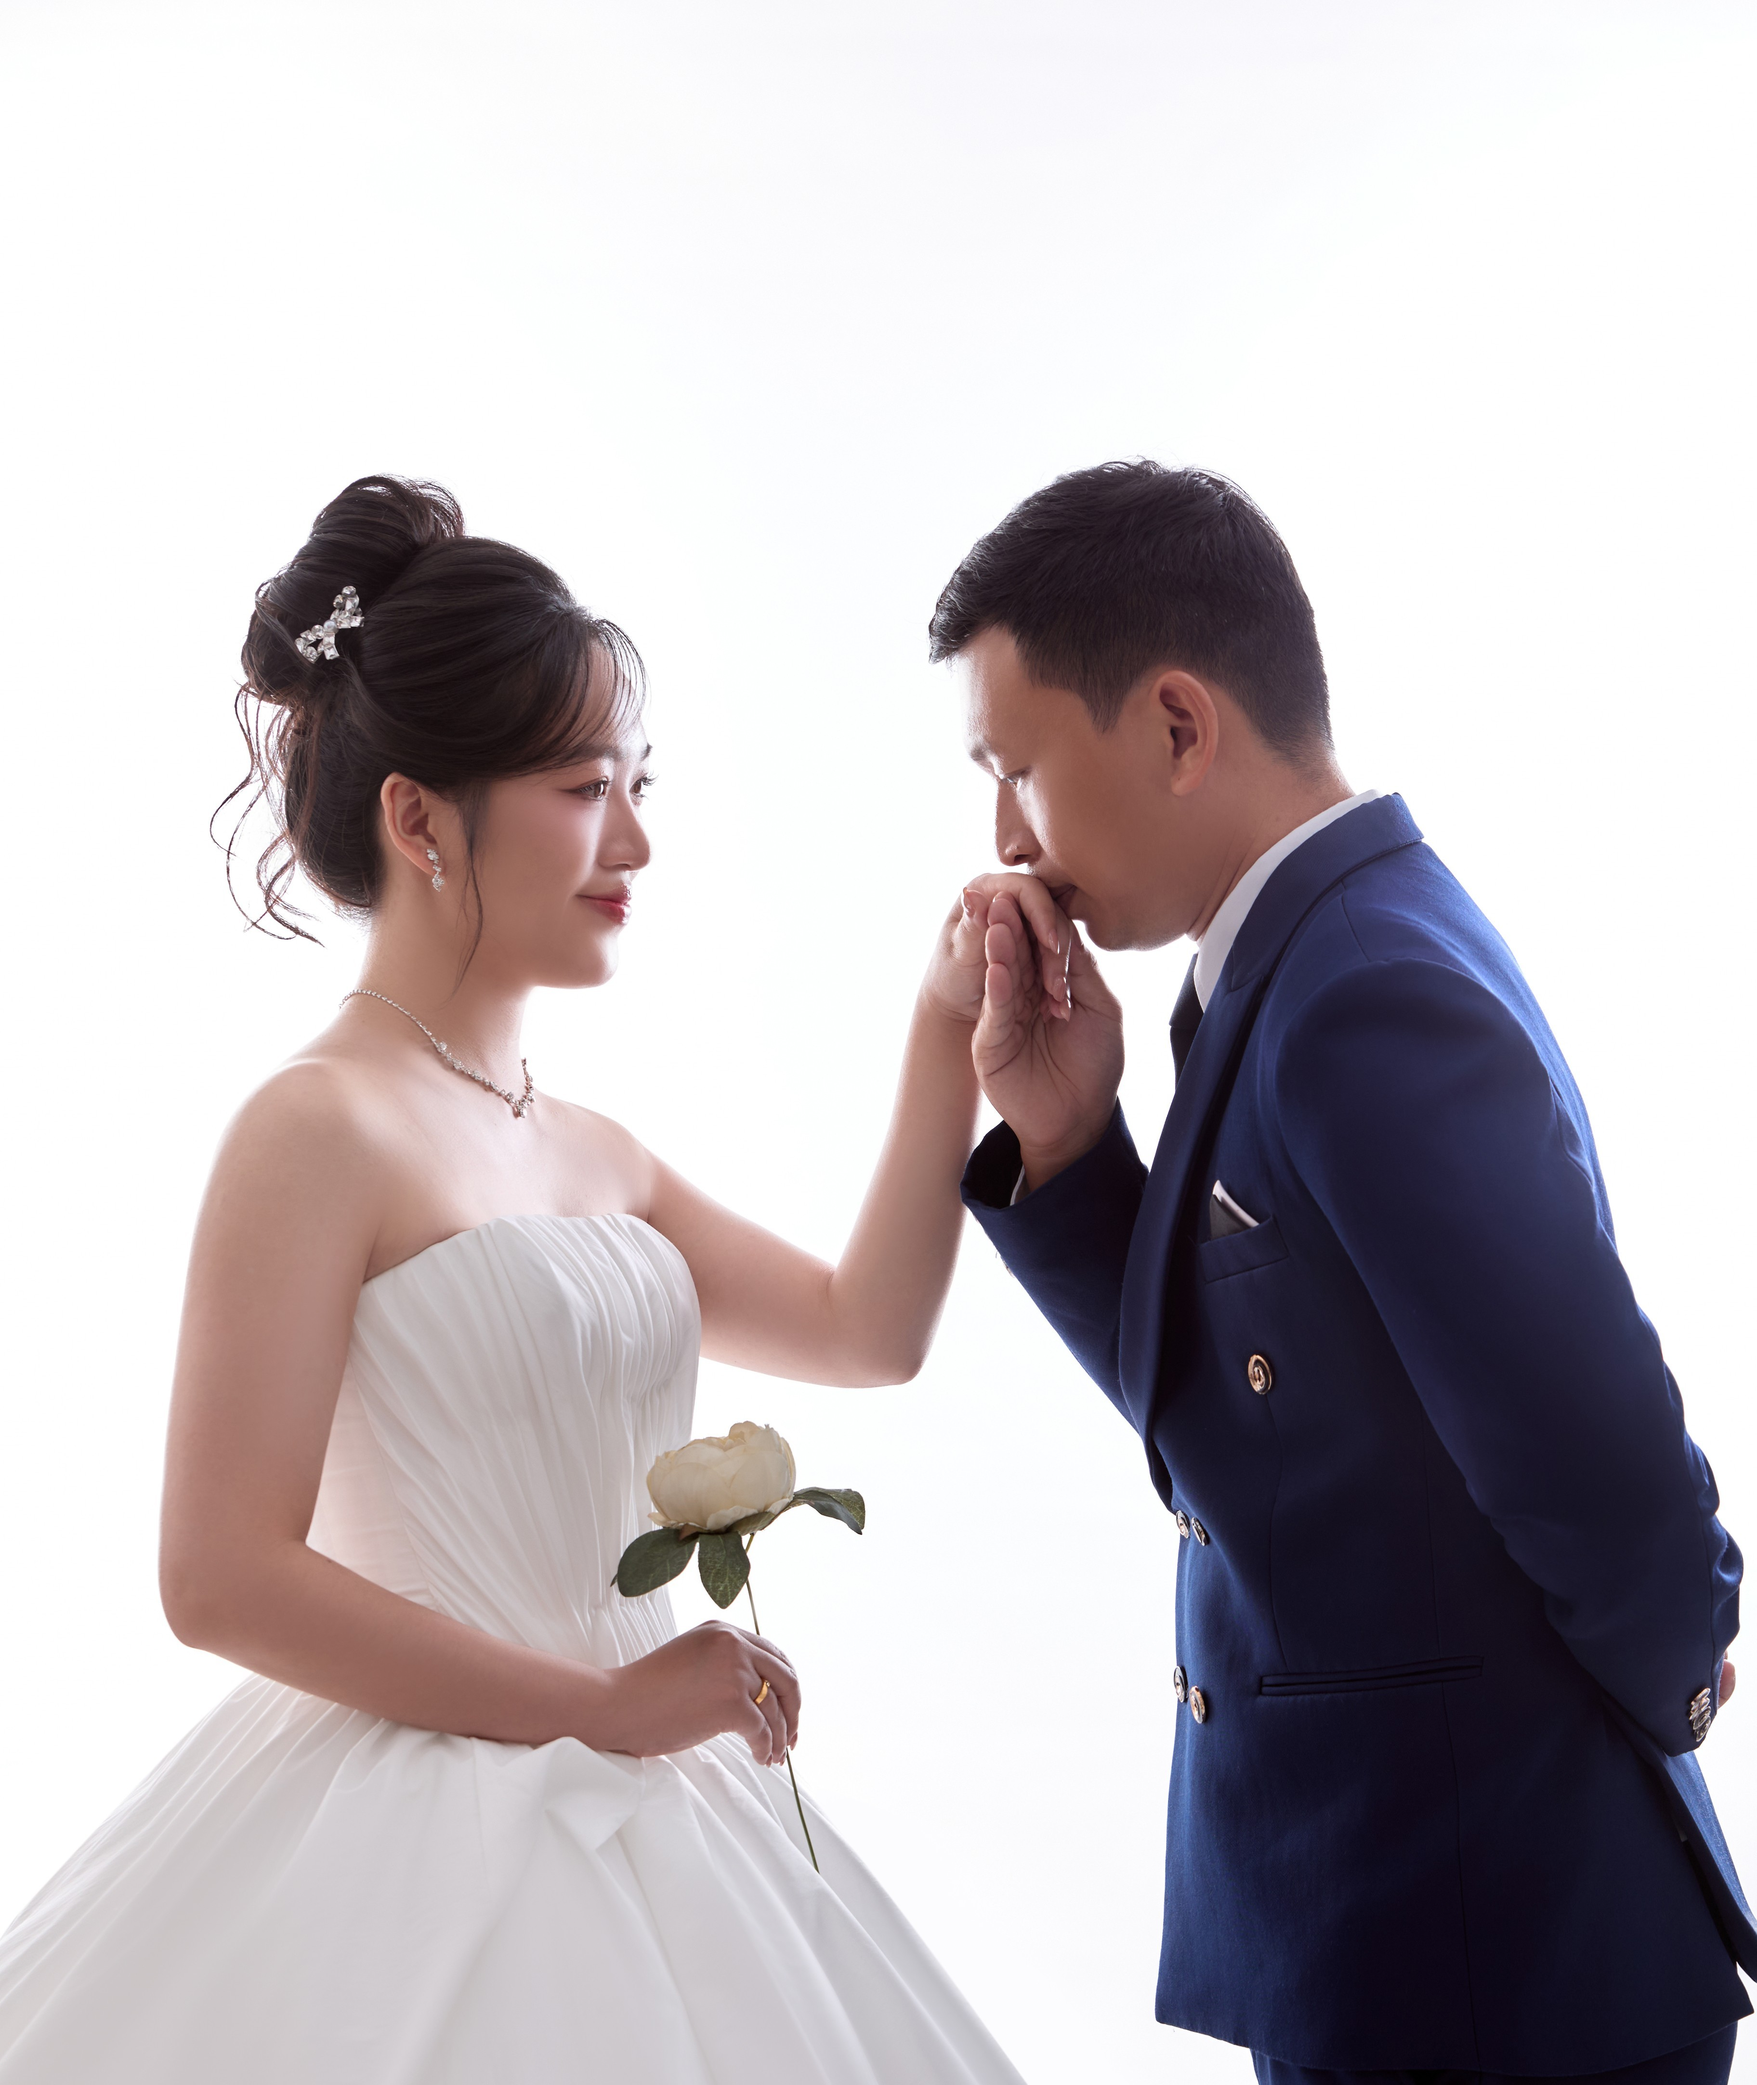
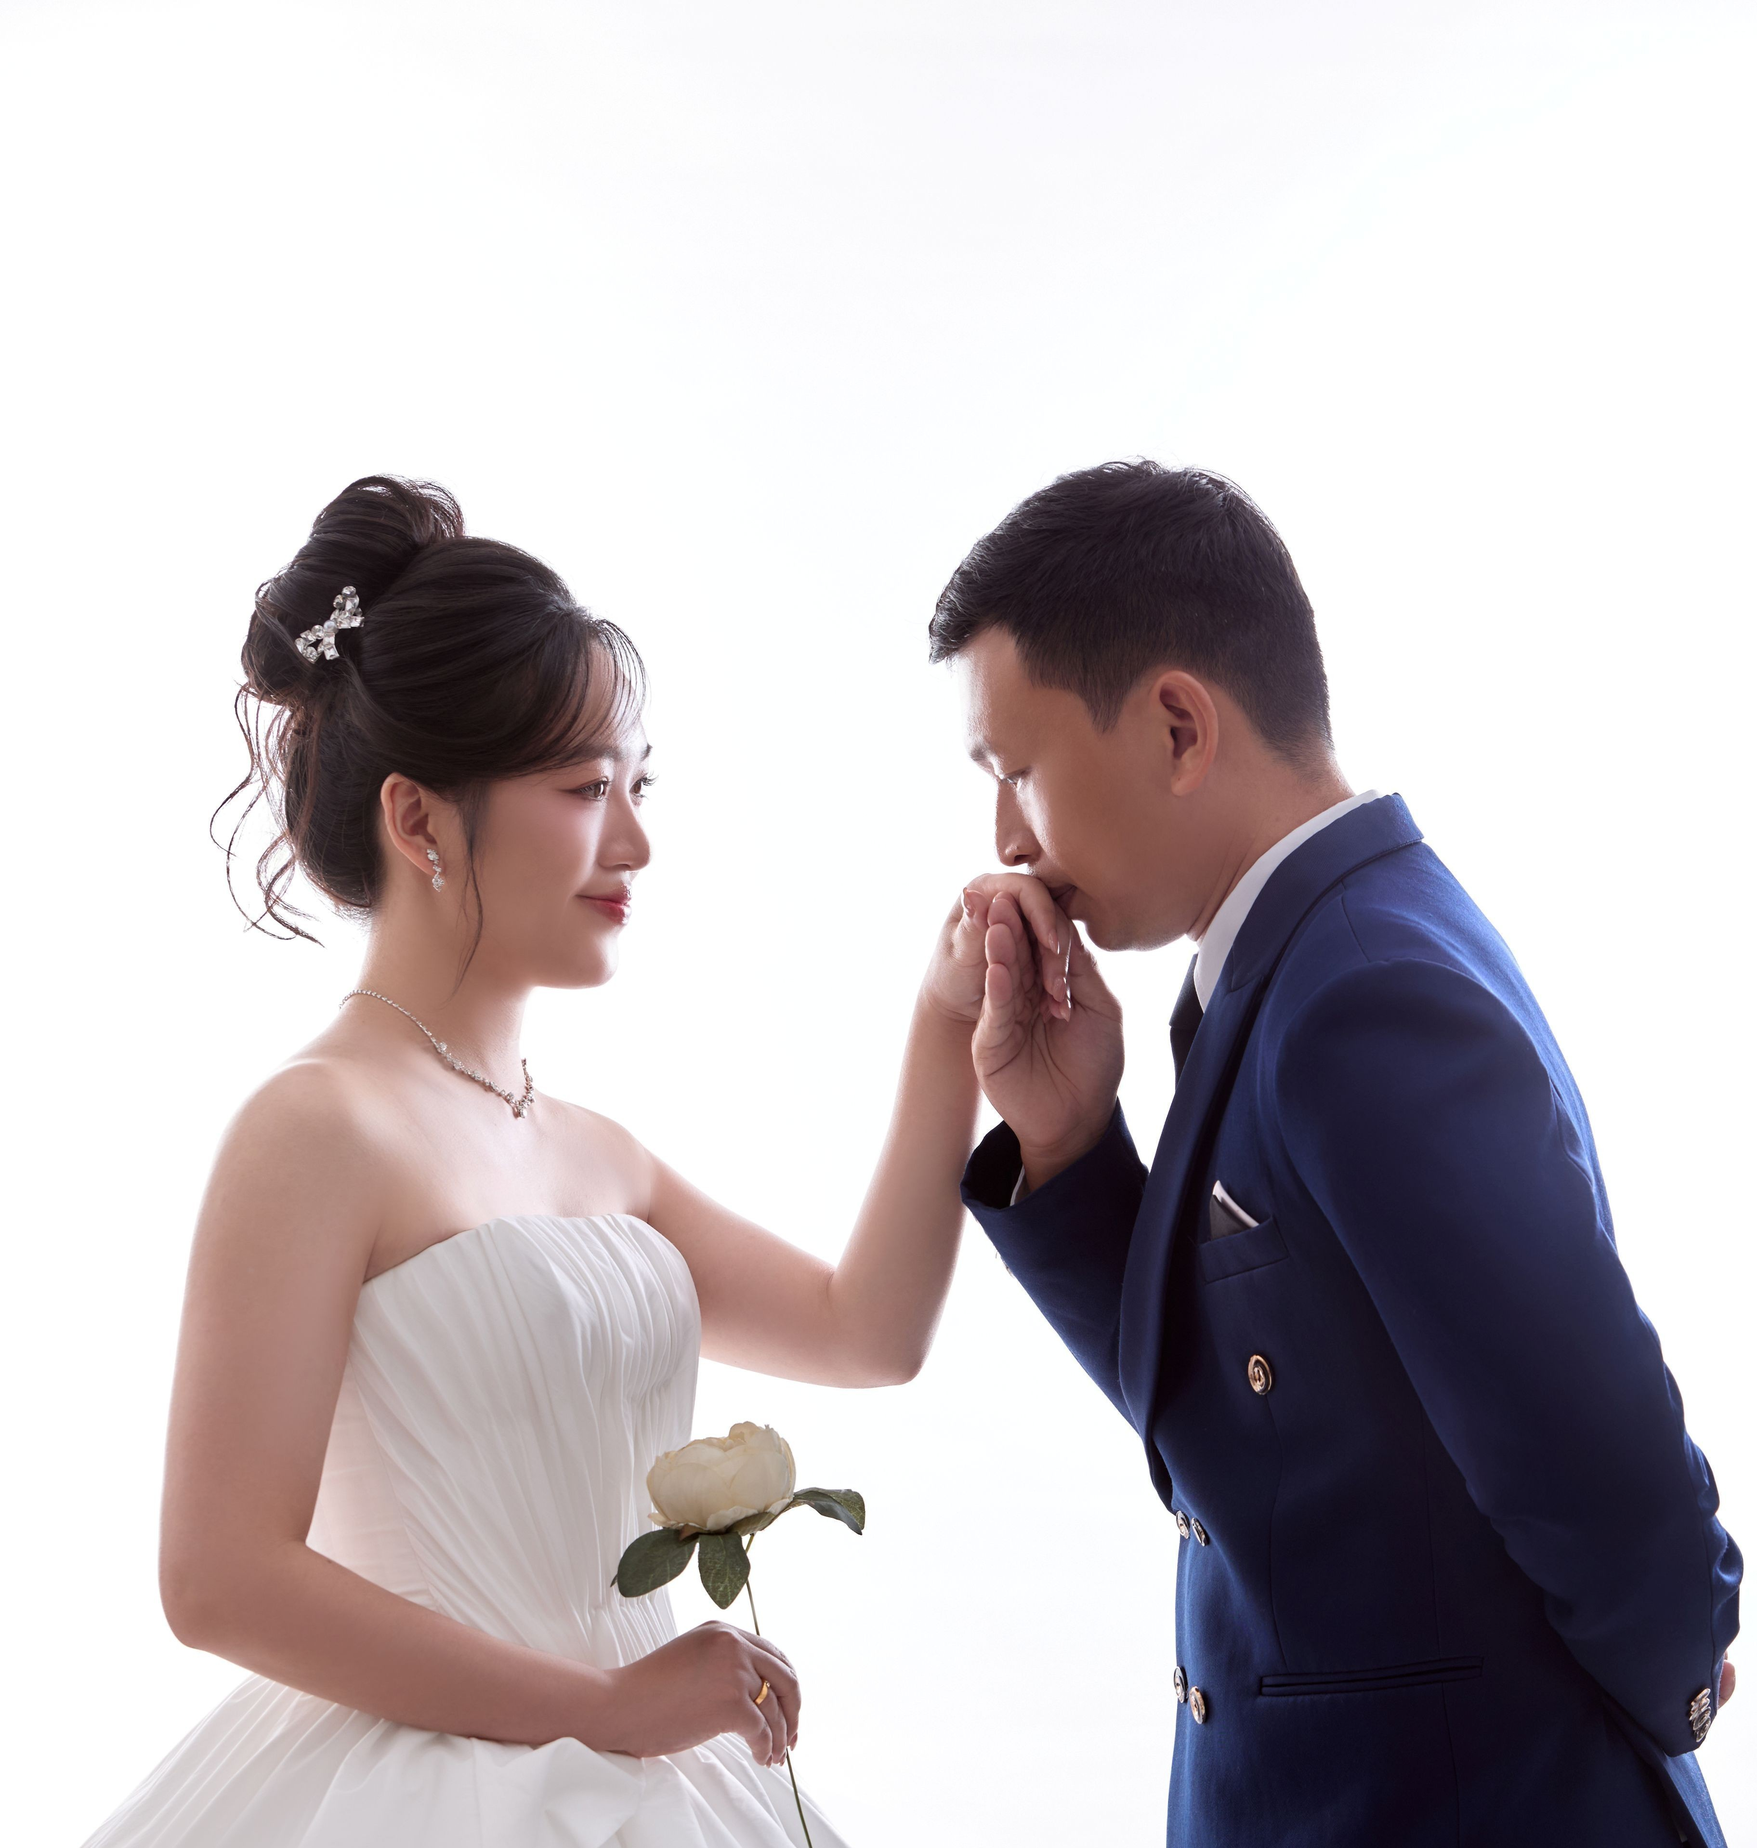
update

diff --git a/index.html b/index.html
@@ -1095,7 +1095,7 @@
           <div class="invitation-container">
             <div class="invitation-card">
               <img
-                data-src="./wp-content/pictures/M___0016.jpg"
+                data-src="./wp-content/pictures/M___0321.jpg"
                 alt=""
                 class="lazyload"
               />
@@ -1596,7 +1596,7 @@
       <div class="uk-overlay uk-overlay-primary uk-position-cover"></div>
 
       <img
-        data-src="./wp-content/pictures/album/My New Project_07.jpg"
+        data-src="./wp-content/pictures/M___0194.jpg"
         alt=""
         class="thankyou-bg lazyload"
         style="object-position: center"
